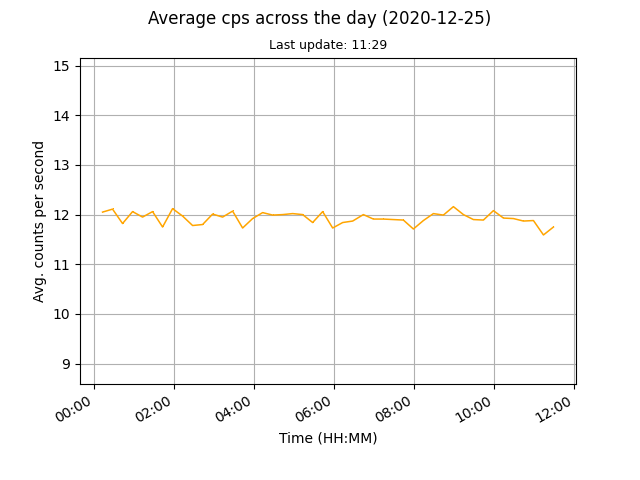
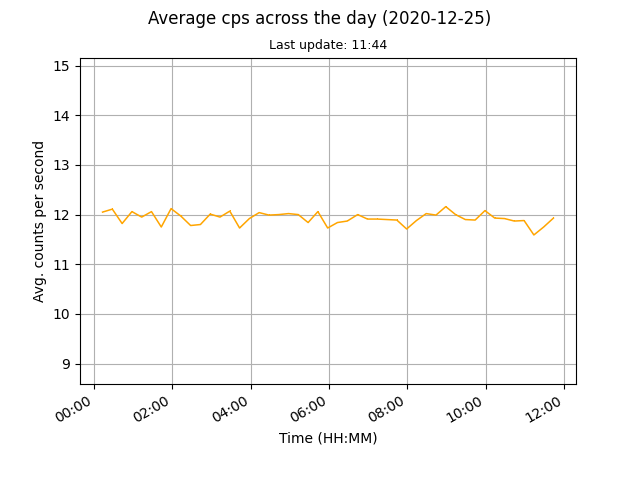
auto data update

diff --git a/docs/index.html b/docs/index.html
@@ -28,8 +28,8 @@
 	<h1>OpenSC Data Webarchive</h1>
 	<h1>Longterm measurements done with the Open Scintillation Counter. Location: Vienna, Austria.</h1>
 	
-	<h2>Current cps: 11.75</h2>
-	<h2>Last update: 2020-12-25, 11:29</h2>
+	<h2>Current cps: 11.93</h2>
+	<h2>Last update: 2020-12-25, 11:44</h2>
 
 	<p><img src="images/monthly.png" alt="Mothly avg cps data"><img src="images/daily.png" alt="Daily avg cps data"></p>
 
